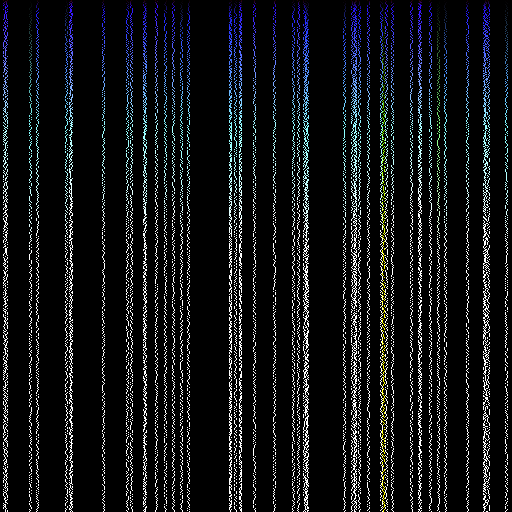
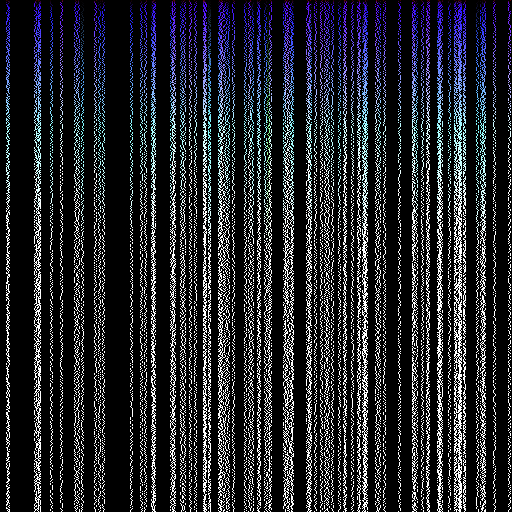
.

Changed region(s): [[0.25, 0.0, 1.0, 1.0], [0.0625, 0.0, 0.2188, 1.0], [0.0, 0.0, 0.0312, 1.0]]

diff --git a/Squiggly_Line.py b/Squiggly_Line.py
@@ -14,7 +14,7 @@ f = 0
 xpos = []
 
 
-for x in range(n):
+for x in range(1, n-1):
 	f = random.randint(0, img_sizex)
 	for y in range(0, img_sizey):
 		xpos = [f for i in range(0,n)]
@@ -23,5 +23,3 @@ for x in range(n):
 
 
 imag.save("Squiggly.png", "PNG")
-
-
